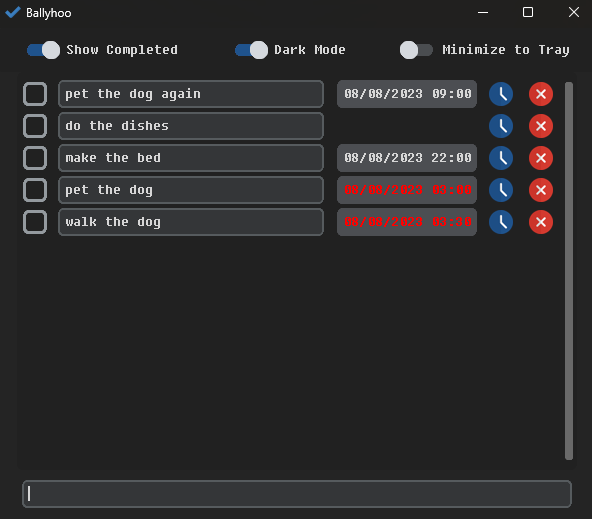
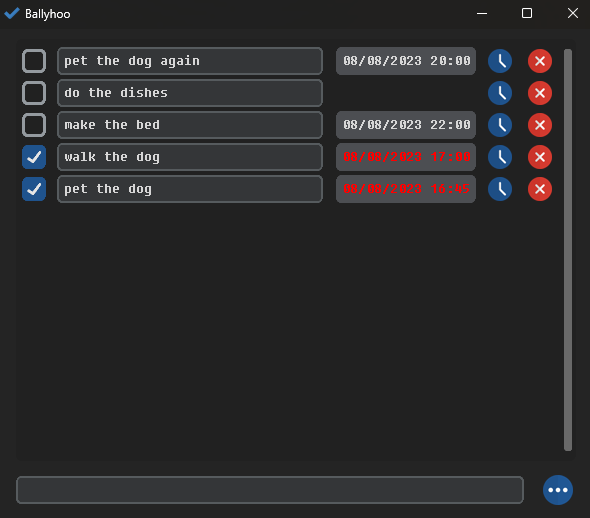
Installer, add to startup and settings menu

Changed region(s): [[0.0, 0.0, 0.9763, 0.9884], [0.9458, 0.0, 0.9763, 0.0309], [0.8847, 0.0, 0.9153, 0.0309]]

diff --git a/src/ballyhoo.py b/src/ballyhoo.py
@@ -6,6 +6,7 @@ import customtkinter as ctk
 import os
 from PIL import Image
 import pystray
+import shutil
 
 
 class DarkModeSwitch(ctk.CTkSwitch):
@@ -33,14 +34,17 @@ class Ballyhoo(ctk.CTk):
     def __init__(self):
         super().__init__()
 
-        dir = os.getenv('LOCALAPPDATA') + '/Ballyhoo/'
         # dir = './'
+        dir = os.getenv('LOCALAPPDATA') + '/Ballyhoo/'
         
         if not os.path.isdir(dir):
             os.mkdir(dir)
+            
+        self.start_menu_dir = os.getenv('APPDATA') + '/Microsoft/Windows/Start Menu/Programs/'
         
         self.settings = Settings(dir)
         self.font = ctk.CTkFont('fixedsys', 12)
+        self.settings_open = False
         
         ctk.set_appearance_mode(self.settings.appearance_mode)
         ctk.set_default_color_theme('dark-blue')
@@ -49,20 +53,36 @@ class Ballyhoo(ctk.CTk):
         self.geometry(f'{self.settings.width}x{self.settings.height}')
         self.iconbitmap(Util.resource_path('ballyhoo.ico'))
         
-        self.grid_rowconfigure(1, weight=1)
+        self.grid_rowconfigure(0, weight=1)
         self.grid_columnconfigure(0, weight=1)
         
         self.configure(yscrollincrement=1)
         Util.center(self)
         
         self.switch_frame = ctk.CTkFrame(master=self)
-        self.switch_frame.columnconfigure((0, 1, 2), weight=1)
+        self.switch_frame.rowconfigure((0, 1, 2, 3), weight=1)
+        self.switch_frame.columnconfigure(0, weight=1)
         
-        self.show_completed_switch = ctk.CTkSwitch(master=self.switch_frame, text='Show Completed', font=self.font)
+        self.show_completed_switch = ctk.CTkSwitch(master=self.switch_frame, text='Show Completed Tasks', font=self.font)
         self.dark_mode_switch = DarkModeSwitch(master=self.switch_frame, text='Dark Mode', font=self.font)
         self.minimize_to_tray_switch = ctk.CTkSwitch(master=self.switch_frame, text='Minimize to Tray', font=self.font)
+        self.run_on_startup_switch = ctk.CTkSwitch(master=self.switch_frame, text='Run on Startup', font=self.font)
         self.input_field = ctk.CTkEntry(master=self, font=self.font)
         self.task_list = TaskList(master=self, dir=dir, input_field=self.input_field)
+        
+        BUTTON_WIDTH = BUTTON_HEIGHT = 30
+        settings_icon_light = Image.open(Util.resource_path('settings_light.png'))
+        settings_icon_dark = Image.open(Util.resource_path('settings_dark.png'))
+        
+        self.settings_button = ctk.CTkButton(
+            master=self, 
+            width=28, 
+            height=28, 
+            text=None,
+            fg_color='transparent',
+            image=ctk.CTkImage(settings_icon_light, settings_icon_dark, size=(BUTTON_WIDTH, BUTTON_HEIGHT)),
+            command=self.open_settings
+        )
         
         if self.settings.show_completed:
             self.show_completed_switch.select()
@@ -72,6 +92,10 @@ class Ballyhoo(ctk.CTk):
             self.minimize_to_tray_switch.select()
             self.protocol('WM_DELETE_WINDOW', self.bh_withdraw)
         self.minimize_to_tray_switch.configure(command=self.minimize_to_tray)
+        
+        if self.settings.run_on_startup:
+            self.run_on_startup_switch.select()
+        self.run_on_startup_switch.configure(command=self.run_on_startup)
         
         self.bind(
             sequence='<Configure>', 
@@ -83,20 +107,23 @@ class Ballyhoo(ctk.CTk):
         )
         self.input_field.bind(
             sequence='<Up>', 
-            command=lambda event: self.navigate_to_task_list()
+            command=lambda event: self.navigate_to_task_list(True)
         )
         self.input_field.bind(
             sequence='<Control-Key-a>', 
             command=lambda event, widget=self.input_field: Util.select_all(widget)
         )
         
-        self.switch_frame.grid(row=0, column=0, columnspan=2, sticky='ew')
-        self.show_completed_switch.grid(row=0, column=0, padx=10, pady=10)
-        self.dark_mode_switch.grid(row=0, column=1, padx=10, pady=10)
-        self.minimize_to_tray_switch.grid(row=0, column=2, padx=10, pady=10)
-        self.task_list.grid(row=1, column=0, columnspan=2, padx=20, sticky='nsew')
-        self.input_field.grid(row=2, column=0, padx=25, pady=(10, 20), sticky='ew')
+        self.show_completed_switch.grid(row=0, column=0, padx=10, sticky='nsew')
+        self.dark_mode_switch.grid(row=1, column=0, padx=10, sticky='nsew')
+        self.minimize_to_tray_switch.grid(row=2, column=0, padx=10, sticky='nsew')
+        self.run_on_startup_switch.grid(row=3, column=0, padx=10, sticky='nsew')
+        self.task_list.grid(row=0, column=0, columnspan=2, padx=20, pady=(10, 0), sticky='nsew')
+        self.input_field.grid(row=1, column=0, padx=(20, 0), pady=(10, 20), sticky='ew')
+        self.settings_button.grid(row=1, column=1, padx=(10, 15), pady=(10, 20))
         
+        self.update_idletasks()
+        self.navigate_to_task_list()
         self.input_field.focus()
     
     def minimize_to_tray(self):
@@ -123,12 +150,33 @@ class Ballyhoo(ctk.CTk):
         icon.run()
     
     def resize(self, event):
-        if event.widget == self:
-            if event.width != self.settings.width or event.height != self.settings.height:
-                self.settings.width = event.width
-                self.settings.height = event.height
-                
-                self.settings.write()
+        if event.widget == self and (event.width != self.settings.width or event.height != self.settings.height):
+            self.settings.width = event.width
+            self.settings.height = event.height
+            self.settings.write()
+
+    def run_on_startup(self):
+        self.settings.run_on_startup = self.run_on_startup_switch.get()
+        
+        try:
+            if self.settings.run_on_startup:
+                shutil.copy2(self.start_menu_dir + 'Ballyhoo/Ballyhoo.lnk', self.start_menu_dir + 'Startup/')
+            else:
+                os.remove(self.start_menu_dir + 'Startup/Ballyhoo.lnk')
+        except:
+            pass
+        
+        self.settings.write()
+
+    def open_settings(self):
+        if self.settings_open:
+            self.switch_frame.grid_forget()
+            self.task_list.grid(row=0, column=0, columnspan=2, padx=20, pady=(10, 0), sticky='nsew')
+        else:
+            self.task_list.grid_forget()
+            self.switch_frame.grid(row=0, column=0, columnspan=2, padx=20, pady=(10, 0), sticky='new')
+            
+        self.settings_open = not self.settings_open
 
     def show_completed(self):
         self.settings.show_completed = self.show_completed_switch.get()
@@ -144,7 +192,7 @@ class Ballyhoo(ctk.CTk):
             self.task_list.add_task(title)
             self.input_field.delete(0, ctk.END)
     
-    def navigate_to_task_list(self):
+    def navigate_to_task_list(self, shift_focus=False):
         entry = None
         
         if self.settings.show_completed and len(self.task_list.completed_tasks):
@@ -154,4 +202,6 @@ class Ballyhoo(ctk.CTk):
         
         if entry:
             Util.scroll_into_view(self.task_list.master, entry)
-            Util.shift_focus_from(self.input_field, entry)
+            
+            if shift_focus:
+                Util.shift_focus_from(self.input_field, entry)

diff --git a/src/settings.py b/src/settings.py
@@ -3,7 +3,8 @@ import json
 class Settings():
     def __init__(self, dir):
         self.dir = dir
-        self.appearance_mode, self.width, self.height, self.show_completed, self.minimize_to_tray = self.read()
+        self.appearance_mode, self.width, self.height, \
+        self.show_completed, self.minimize_to_tray, self.run_on_startup = self.read()
         
     def serialize(self):
         return { 
@@ -11,15 +12,15 @@ class Settings():
             'width': self.width, 
             'height': self.height, 
             'show_completed': self.show_completed, 
-            'minimize_to_tray': self.minimize_to_tray 
+            'minimize_to_tray': self.minimize_to_tray,
+            'run_on_startup': self.run_on_startup
         }
 
     def read(self):
         appearance_mode = 'dark'
         width = 600
         height = 500
-        show_completed = False
-        minimize_to_tray = False
+        show_completed = minimize_to_tray = run_on_startup = False
         
         with open(self.dir + 'settings.json', 'a+') as settings_file:
             if settings_file.tell():
@@ -30,8 +31,9 @@ class Settings():
                 height = data['height']
                 show_completed = data['show_completed']
                 minimize_to_tray = data['minimize_to_tray']
+                run_on_startup = data['run_on_startup']
         
-        return  appearance_mode, width, height, show_completed, minimize_to_tray
+        return appearance_mode, width, height, show_completed, minimize_to_tray, run_on_startup
     
     def write(self):
         with open(self.dir + 'settings.json', 'w') as settings_file:

diff --git a/src/tasklist.py b/src/tasklist.py
@@ -66,6 +66,8 @@ class TaskList(ctk.CTkScrollableFrame):
         if self.show_completed and len(self.completed_tasks):
             self.update_task_list()
             
+        self.update_idletasks()
+        Util.scroll_into_view(self.master, task.entry)
         self.write()
     
     def move_task(self, task):

diff --git a/README.md b/README.md
@@ -6,14 +6,6 @@ Ballyhoo is a simple to-do list built with [CustomTkinter](https://github.com/To
   <img src="resources/screenshot.png"/>
 </p>
 
-## TODO
-
-- [x] Refactoring
-- [x] DateTime picker
-- [x] Minimize to tray
-- [ ] Windows installer
-- [ ] Add to startup
-
 ## Building from source
 
 Run `pip install -r requirements.txt` followed by `scripts/build.bat`.
@@ -25,3 +17,4 @@ Run `pip install -r requirements.txt` followed by `scripts/build.bat`.
 1. <a href="https://www.flaticon.com/free-icon/clock_3602222?term=clock&page=1&position=12&origin=style&related_id=3602222" title="clock icons">Clock icons created by Pixel perfect - Flaticon</a>
 2. <a href="https://www.flaticon.com/free-icon/delete_3389152?term=delete&page=1&position=10&origin=style&related_id=3389152" title="delete icons">Delete icons created by Pixel perfect - Flaticon</a>
 3. <a href="https://www.flaticon.com/free-icon/check_390973?term=tick&page=1&position=48&origin=search&related_id=390973" title="tick icons">Tick icons created by Freepik - Flaticon</a>
+4. <a href="https://www.flaticon.com/free-icon/more_248924?term=three+dots&page=5&position=11&origin=search&related_id=248924" title="more icons">More icons created by Freepik - Flaticon</a>
